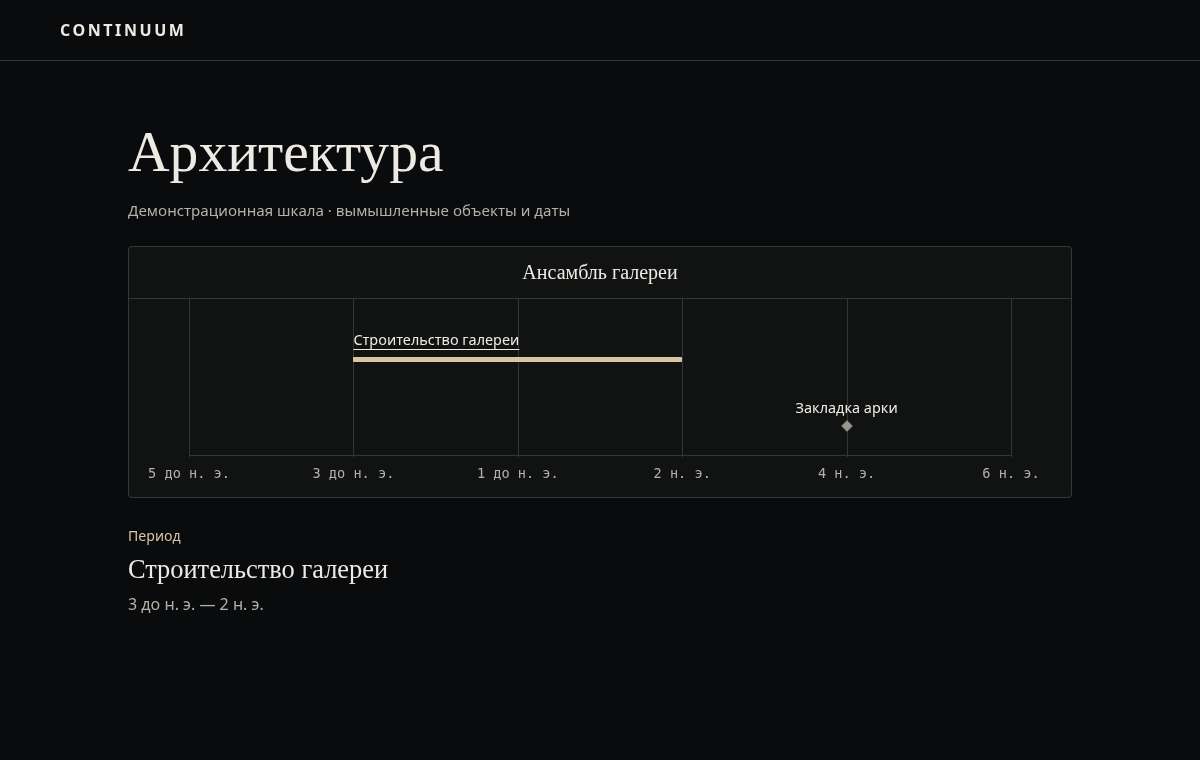
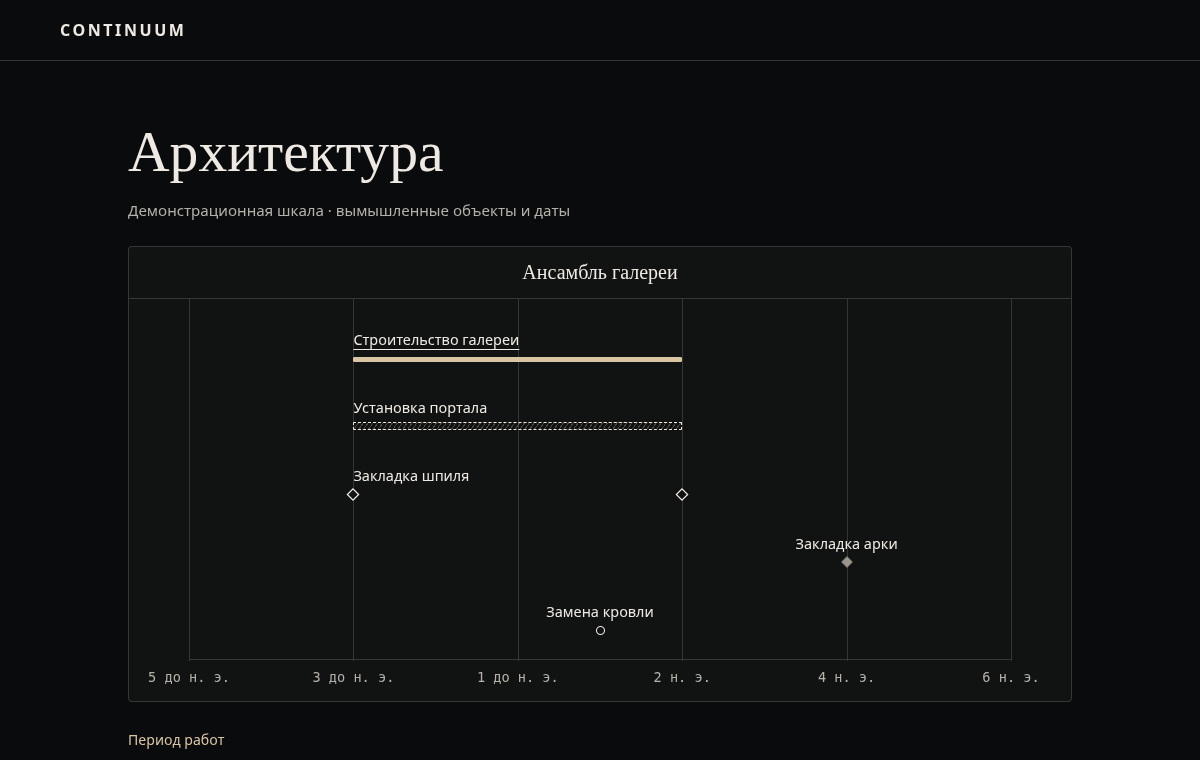
CONT-002: Distinguish date uncertainty from construction duration

diff --git a/src/atlas/Atlas.tsx b/src/atlas/Atlas.tsx
@@ -1,19 +1,35 @@
-import { useState, type CSSProperties } from 'react';
+import { useState } from 'react';
 import { formatYear, yearToX } from '../domain/time';
+import { describeDating } from '../domain/dating';
 import { examples, type Example } from './example';
 
 const firstYear = -4;
 const lastYear = 6;
 const ticks = [-4, -2, 0, 2, 4, 6];
 const percent = (year: number) => yearToX(year, firstYear, lastYear, 100);
-const dateLabel = (item: Example) => item.kind === 'point'
-  ? formatYear(item.year)
-  : formatYear(item.start) + ' — ' + formatYear(item.end);
+const kindLabels = {
+  event: 'Событие', window: 'Возможное время события',
+  alternatives: 'Варианты датировки события', period: 'Период работ',
+};
 
-function position(item: Example): CSSProperties {
-  const start = item.kind === 'point' ? item.year : item.start;
-  const end = item.kind === 'point' ? item.year : item.end;
-  return { left: percent(start) + '%', width: percent(end) - percent(start) + '%' };
+function TimelineMark({ item, selected, onSelect }: {
+  item: Example; selected: boolean; onSelect: () => void;
+}) {
+  const date = item.dating;
+  const { first, last, text } = describeDating(date);
+  const approximate = date.kind === 'event' && date.when.precision === 'circa';
+  const className = ['mark', date.kind, first === last && 'single', approximate && 'circa',
+    date.kind === 'period' && date.start.precision === 'circa' && 'soft-start',
+    date.kind === 'period' && date.end.precision === 'circa' && 'soft-end'].filter(Boolean).join(' ');
+  return <button className={className} style={{left: percent(first) + '%', width: percent(last) - percent(first) + '%'}}
+    type="button" aria-pressed={selected} aria-controls="selection"
+    aria-label={[item.label, kindLabels[date.kind], text].join(', ')} onClick={onSelect}>
+    {date.kind === 'alternatives'
+      ? [...new Set(date.years)].map(year => <span className="candidate" aria-hidden="true" key={year}
+        style={{left: yearToX(year, first, last, 100) + '%'}} />)
+      : <span className="ink" aria-hidden="true" />}
+    <span className="mark-label">{item.label}</span>
+  </button>;
 }
 
 export function Atlas() {
@@ -28,11 +44,7 @@ export function Atlas() {
         <div className="tracks">
           {ticks.map(year => <i aria-hidden="true" key={year} className="guide" style={{left: percent(year) + '%'}} />)}
           {examples.map(item => <div className="track" key={item.id}>
-            <button className={'mark ' + item.kind} style={position(item)}
-              type="button" aria-pressed={active.id === item.id} aria-controls="selection"
-              aria-label={item.label + ', ' + dateLabel(item)} onClick={() => setActive(item)}>
-              <span className="ink" /><span className="mark-label">{item.label}</span>
-            </button>
+            <TimelineMark item={item} selected={active.id === item.id} onSelect={() => setActive(item)} />
           </div>)}
           <div className="ruler" aria-label="Годы">
             {ticks.map(year => <span key={year} style={{left: percent(year) + '%'}}>{formatYear(year)}</span>)}
@@ -40,8 +52,8 @@ export function Atlas() {
         </div>
       </section>
       <div id="selection" aria-live="polite" aria-atomic="true">
-        <span>{active.kind === 'point' ? 'Событие' : 'Период'}</span>
-        <h2>{active.label}</h2><p>{dateLabel(active)}</p>
+        <span>{kindLabels[active.dating.kind]}</span>
+        <h2>{active.label}</h2><p>{describeDating(active.dating).text}</p>
       </div>
     </main>
   </>;

diff --git a/src/style.css b/src/style.css
@@ -15,10 +15,18 @@ header{padding:18px 5vw;border-bottom:1px solid var(--rule)}.brand{font-weight:5
 .tracks{position:relative;margin:0 clamp(30px,5vw,60px);padding-top:20px}.guide{position:absolute;inset-block:0 40px;border-left:1px solid #323635}
 .track{position:relative;height:68px}.mark{position:absolute;top:0;height:48px;border:0;padding:0;background:transparent;white-space:nowrap}
 .mark .ink{position:absolute;left:0;right:0;bottom:5px;height:5px;background:#9a968d;border-radius:1px}
-.mark.point{min-width:44px;transform:translateX(-50%)}.mark.point .ink{left:calc(50% - 4px);width:8px;height:8px;transform:rotate(45deg)}
-.mark-label{position:absolute;left:0;bottom:16px;font-size:.9rem}.point .mark-label{left:50%;transform:translateX(-50%)}
+.mark.single{min-width:44px;transform:translateX(-50%)}.mark.event .ink{left:calc(50% - 4px);width:8px;height:8px;transform:rotate(45deg)}
+.mark-label{position:absolute;left:0;bottom:16px;font-size:.9rem}.single .mark-label{left:50%;transform:translateX(-50%)}
 .mark[aria-pressed=true] .ink{background:var(--gold)}.mark[aria-pressed=true] .mark-label{text-decoration:underline;text-underline-offset:4px}
 .ruler{height:42px;border-top:1px solid var(--rule);position:relative}
 .ruler span{position:absolute;top:9px;transform:translateX(-50%);white-space:nowrap;font: .85rem/1.3 ui-monospace,monospace;color:var(--quiet)}
 #selection{margin-top:1.6rem}#selection span{font-size:.88rem;color:var(--gold)}#selection h2{margin:.15rem 0;font-size:1.65rem}#selection p{margin:0}
 @media(max-width:600px){.atlas{margin:2rem auto}.ruler span:nth-child(2),.ruler span:nth-child(4),.ruler span:nth-child(5){display:none}.mark-label{font-size:.85rem}}
+
+.mark.window .ink{height:8px;border:1px dashed currentColor;background:repeating-linear-gradient(125deg,transparent 0 3px,#b5aa9559 3px 4px)}
+.mark .candidate,.mark.circa .ink{position:absolute;width:9px;height:9px;bottom:4px;border:1.5px solid currentColor;background:var(--surface,#111313)}
+.mark .candidate{transform:translateX(-50%) rotate(45deg)}
+.mark.circa .ink{border-radius:50%;left:calc(50% - 4.5px)}
+.mark.single:is(.window,.period) .ink{left:calc(50% - 3px);right:auto;width:6px}
+.mark.period .ink{mask-image:linear-gradient(90deg,var(--start-ink,#000),#000 20% 80%,var(--end-ink,#000))}
+.mark.soft-start{--start-ink:transparent}.mark.soft-end{--end-ink:transparent}

diff --git a/src/domain/dating.ts b/src/domain/dating.ts
@@ -1,0 +1,34 @@
+import { formatYear } from './time.ts';
+
+export type DatedYear = { precision: 'exact' | 'circa'; year: number };
+export type Dating =
+  | { kind: 'event'; when: DatedYear }
+  | { kind: 'window'; earliest: number; latest: number }
+  | { kind: 'alternatives'; years: readonly [number, number, ...number[]] }
+  | { kind: 'period'; start: DatedYear; end: DatedYear };
+
+function label(date: DatedYear): string {
+  return (date.precision === 'circa' ? 'около ' : '') + formatYear(date.year);
+}
+
+// The extent positions the mark. For alternatives only the named years are candidates.
+export function describeDating(date: Dating) {
+  switch (date.kind) {
+    case 'event': {
+      const year = date.when.year;
+      return { first: year, last: year, text: label(date.when) };
+    }
+    case 'window':
+      if (date.latest < date.earliest) throw new RangeError('Reversed event window');
+      return { first: date.earliest, last: date.latest,
+        text: 'Между ' + formatYear(date.earliest) + ' и ' + formatYear(date.latest) };
+    case 'alternatives': {
+      const years = [...new Set(date.years)].sort((a, b) => a - b);
+      if (years.length < 2) throw new RangeError('Expected at least two distinct candidate years');
+      return { first: years[0], last: years[years.length - 1], text: years.map(formatYear).join(' или ') };
+    }
+    case 'period':
+      if (date.end.year < date.start.year) throw new RangeError('Reversed construction period');
+      return { first: date.start.year, last: date.end.year, text: label(date.start) + ' — ' + label(date.end) };
+  }
+}

diff --git a/src/atlas/example.ts b/src/atlas/example.ts
@@ -1,9 +1,14 @@
-// Entirely synthetic. These are interface fixtures, not historical assertions.
-export type Example =
-  | { id: string; label: string; kind: 'point'; year: number }
-  | { id: string; label: string; kind: 'interval'; start: number; end: number };
+import type { Dating } from '../domain/dating';
 
+// Synthetic interface fixtures. Three examples share coordinates so readers can
+// compare a duration, a possible window and discrete candidate dates.
+export type Example = { id: string; label: string; dating: Dating };
 export const examples: readonly Example[] = [
-  { id: 'example-gallery', label: 'Строительство галереи', kind: 'interval', start: -2, end: 2 },
-  { id: 'example-arch', label: 'Закладка арки', kind: 'point', year: 4 },
+  { id: 'example-gallery', label: 'Строительство галереи', dating: {
+    kind: 'period', start: { precision: 'exact', year: -2 }, end: { precision: 'exact', year: 2 }
+  } },
+  { id: 'example-portal', label: 'Установка портала', dating: { kind: 'window', earliest: -2, latest: 2 } },
+  { id: 'example-spire', label: 'Закладка шпиля', dating: { kind: 'alternatives', years: [-2, 2] } },
+  { id: 'example-arch', label: 'Закладка арки', dating: { kind: 'event', when: { precision: 'exact', year: 4 } } },
+  { id: 'example-roof', label: 'Замена кровли', dating: { kind: 'event', when: { precision: 'circa', year: 1 } } },
 ];

diff --git a/docs/next.md b/docs/next.md
@@ -1,15 +1,17 @@
-# Состояние разработки
+# Development status
 
-## CONT-001 · Первый работающий маршрут
+## Implemented
 
-В этой ветке можно открыть приветственный экран и перейти на `/atlas`. Один вымышленный пример проверяет, как событие и период располагаются на одной линейной оси. Пользователь выбирает элемент мышью или клавиатурой. Годы на линейке проходят через границу эр и отображаются в исторической записи.
+CONT-001 introduced the welcome screen, the atlas route, a linear year coordinate across the BCE/CE boundary, and automated checks.
 
-Воспроизводимая проверка на Node.js 22.16.0: `npm ci`, затем `npm run check`. Локально прошли TypeScript, ESLint, три исходных теста домена и сборка Vite. В Chromium проверены прямой вход и перезагрузка `/atlas`, переход с главной и обратно, выбор события и периода, отсутствие горизонтального переполнения страницы при ширине 320, 390 и 1200 пикселей.
+CONT-002 gives the timeline a shared dating model. A solid bar represents a period of work. Hatching represents the possible date range of one event. Discrete candidate years have separate markers. An approximate event keeps a single year anchor, and each boundary of a period can independently be marked approximate. Selecting a mark exposes its date in text.
 
-## Следующая задача — CONT-002 · Точность датировки
+The demonstration uses synthetic fixtures. Domain tests cover matching numeric bounds with different meanings, approximate dates, invalid inputs, and historical year formatting. Run `npm ci` and `npm run check` on Node.js 22.16.0 to reproduce the repository checks.
 
-Описать точный год, приблизительный год, окно возможных дат события и период с отдельной точностью каждой границы. Перевести оба демонстрационных элемента на единый тип датировки в `src/domain`.
+## Next task — CONT-003: A compact timeline inside an object card
 
-Критерий готовности: по одной и той же числовой паре можно показать либо вероятное время события, либо длительность работ. Подпись и графика сохраняют это различие. Для «около» не создаются искусственные границы. Новые случаи покрываются тестами, включая переход между эрами.
+Use one synthetic building with a construction phase and a separately dated event. Render both using the same dating types as the atlas. Keep the card's selection and viewport independent from the global timeline.
 
-Собственная шкала здания и загрузка проверенного архитектурного набора из Airtable зависят от этого контракта. Вопрос для проверки на реальных данных — как хранить два альтернативных года начала с привязкой каждого к источнику.
+Acceptance: opening the card, selecting a phase, and returning to the atlas preserves the global selection and date range. The phase and event remain individually selectable with a keyboard and at mobile widths.
+
+Source attribution for competing dates, open-ended construction periods, and publication of a reviewed Airtable dataset remain open before importing real records.

diff --git a/README.md b/README.md
@@ -1,29 +1,31 @@
 # CONTINUUM
 
-Интерактивный атлас знаний на общей шкале времени. Первый предметный раздел — архитектура.
+CONTINUUM is an interactive knowledge atlas built around a shared timeline. Architecture is the first subject. Readers enter through a welcome screen and explore a synthetic architectural ensemble at `/atlas`. The reader interface is in Russian. The separately hosted Sites prototype remains a reference for the product design.
 
-Первая версия для разработки включает приветственный экран и отдельный маршрут `/atlas`. На демонстрационной шкале можно выбрать событие или период. Даты и объекты вымышлены. Опубликованный прототип в Sites развивается отдельно.
+## Run locally
 
-## Запуск
-
-Требуется Node.js 22.16.0 (версия закреплена в `.nvmrc`).
+Use Node.js 22.16.0, as pinned in `.nvmrc`.
 
 ```sh
 npm ci
 npm run dev
 ```
 
-Откройте адрес, который напечатает Vite. Для проверки прямого входа перейдите на `/atlas`. Ссылка CONTINUUM возвращает на главную.
+Open the address printed by Vite. You can also open `/atlas` directly and follow the CONTINUUM link to return to the welcome screen.
 
-## Проверки
+## Read the timeline
 
-`npm run check` запускает проверку типов, ESLint, тесты временных координат и сборку. Для просмотра собранной версии выполните `npm run preview` после сборки.
+Select a mark with a pointer, or use Tab and Enter. The details below the timeline show the selected item's name, temporal meaning, and date. The construction period, the portal's possible installation window, and the spire's two candidate foundation years use identical outer coordinates to demonstrate three different readings. All objects and dates in this example are fictional.
 
-![Демонстрационная шкала с интервалом строительства и отдельным событием закладки](docs/atlas.png)
+![Architecture timeline with a construction interval, event window, alternative years and single-year events](docs/atlas.png)
 
-## Разработка
+## Verify a change
 
-- [Текущее состояние и ближайшая задача](docs/next.md)
-- [Архитектура приложения и модель времени](docs/architecture.md)
-- [Правила работы в репозитории](AGENTS.md)
-- [Концепция в Space](https://chatgpt.com/space/page_f28789fc18f481919b4e47013357f878) и [единая архитектура данных](https://chatgpt.com/space/page_4c04c65a847c8191894d6687b4d7afe3)
+Run `npm run check` for type checking, ESLint, domain tests, and a production build. Use `npm run preview` after building to serve the output locally.
+
+## Development
+
+- [Development status and next task](docs/next.md)
+- [Application architecture and temporal model](docs/architecture.md)
+- [Repository instructions](AGENTS.md)
+- [Product concept](https://chatgpt.com/space/page_f28789fc18f481919b4e47013357f878) and [shared data architecture](https://chatgpt.com/space/page_4c04c65a847c8191894d6687b4d7afe3)

diff --git a/docs/architecture.md b/docs/architecture.md
@@ -10,7 +10,7 @@ Canonical KnowledgeObjects contain stable IDs and identity, Claims describe the 
 ## Time
 Internal astronomical integer years: 0 = 1 BCE, -1 = 2 BCE; user labels omit year zero. Preserve original value, calendar and precision. Point means a dated event or assertion (possible date bounds), not duration. Interval means a period with independently uncertain start and end; end state known, unknown or ongoing. Unknown is not ongoing. Never invent numeric bounds for circa. Separate historical time, relation validity and transaction time. Distinguish possible and definite overlap; inclusive year coverage is not exact duration. Missing phases do not establish interruptions. Do not add overlapping phases as independent durations.
 
-The initial `src/domain/time.ts` is intentionally only a small shared year-coordinate utility, not the complete assertion schema or import contract.
+The implemented core uses `src/domain/time.ts` for year coordinates and `src/domain/dating.ts` for exact or approximate events, bounded event windows, discrete candidate years, and periods with independently qualified boundaries. An approximate year retains its anchor. Known bounds determine layout. Provenance, open ends, and import validation belong to subsequent work.
 
 ## View and renderer
 Global horizontal coordinate = time. Y zones: styles/context, objects grouped by type, changes and selected-object details. Regions are facets, not permanent rows. Style hierarchy supports overlap and explicit membership. Global and nested timeline use one time model but separate viewport state. Style focus must not move objects. The date ruler belongs at the bottom of the atlas per recent product feedback; context headings stay at the top. Substyle labels must remain compact under zoom. Never turn technical lanes into historical meaning.

diff --git a/AGENTS.md b/AGENTS.md
@@ -15,4 +15,4 @@ Before work read README.md, docs/architecture.md and docs/next.md. Inspect curre
 - Preserve compatibility with published data; check referential integrity, schema versions and source provenance. Synthetic fixtures must be labeled and never presented as real historical facts.
 - Run existing tests before and after changes. Add meaningful tests for changed behavior, not speculative test volume. Add lint/typecheck/build once application dependencies exist; report checks not run honestly.
 - Keep secrets out of Git. Do not deploy, change billing, change repository visibility, or modify production data without permission. Do not bypass failed checks.
-- Update docs/next.md with completed work, verified checks, decisions, unresolved risks and exactly one recommended next task. Summarize PR in Russian: what changed, user-visible effect, test results and next action. Avoid unnecessary technical details in user-facing summaries.
+- Update docs/next.md with completed work, verified checks, decisions, unresolved risks and exactly one recommended next task. Use English for repository documentation, issues, pull requests, and new commit messages. Keep reader-facing copy in Russian. Each PR should summarize what changed, user-visible effect, test results and next action. Avoid unnecessary technical details in user-facing summaries.
